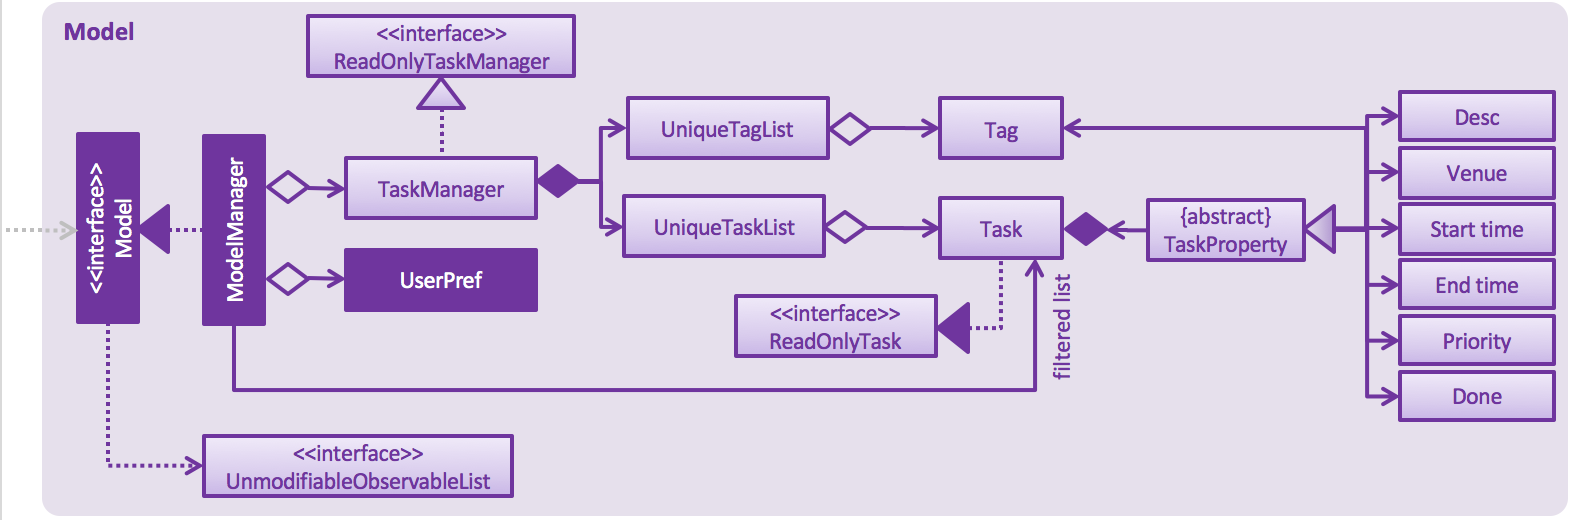
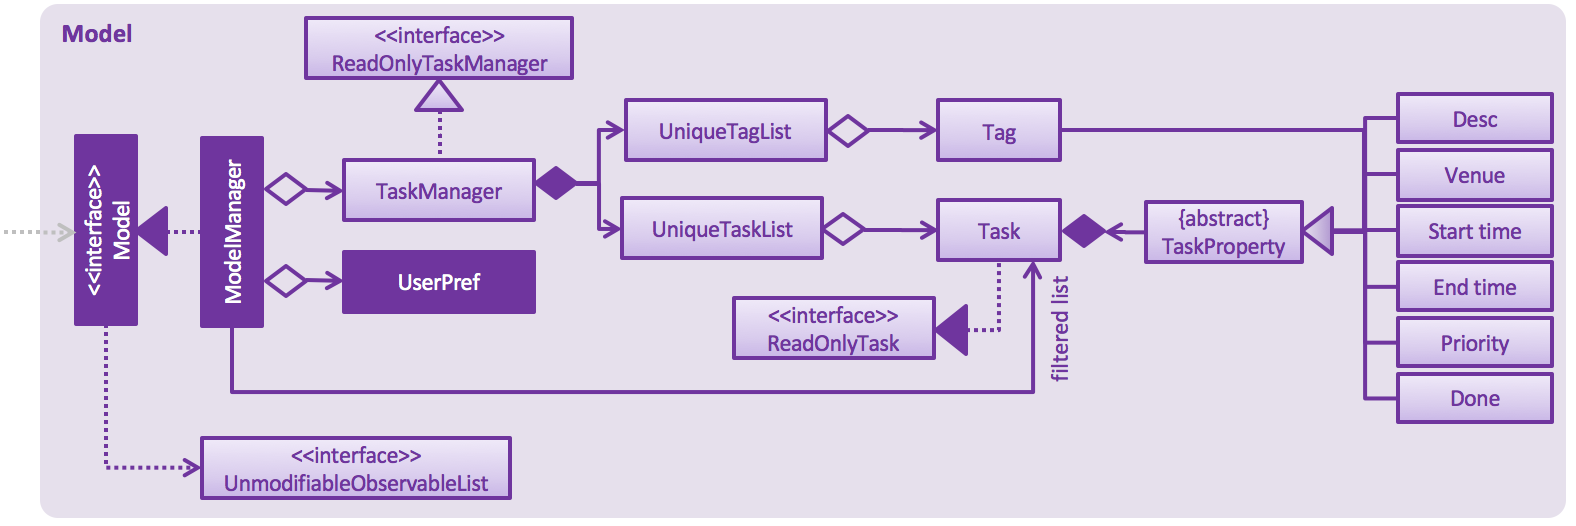
Minor changes to diagrams, updated acknowledgements

diff --git a/README.md b/README.md
@@ -25,6 +25,11 @@ So what are you waiting for? Download it now over [here](../../releases). Check 
 #### Acknowledgements
 
 * The base code for this application was taken from [Addressbook Level 4](https://github.com/se-edu/addressbook-level4).
+* We are using the following open-source libraries:
+  * [JavaFX](http://docs.oracle.com/javase/8/javafx/get-started-tutorial/jfx-overview.htm#JFXST784)
+  * [Jackson](https://github.com/FasterXML/jackson)
+  * [Guava](https://github.com/google/guava)
+  * [PrettyTime](http://www.ocpsoft.org/prettytime/)
 
 
 #### Licence : [MIT](LICENSE)
